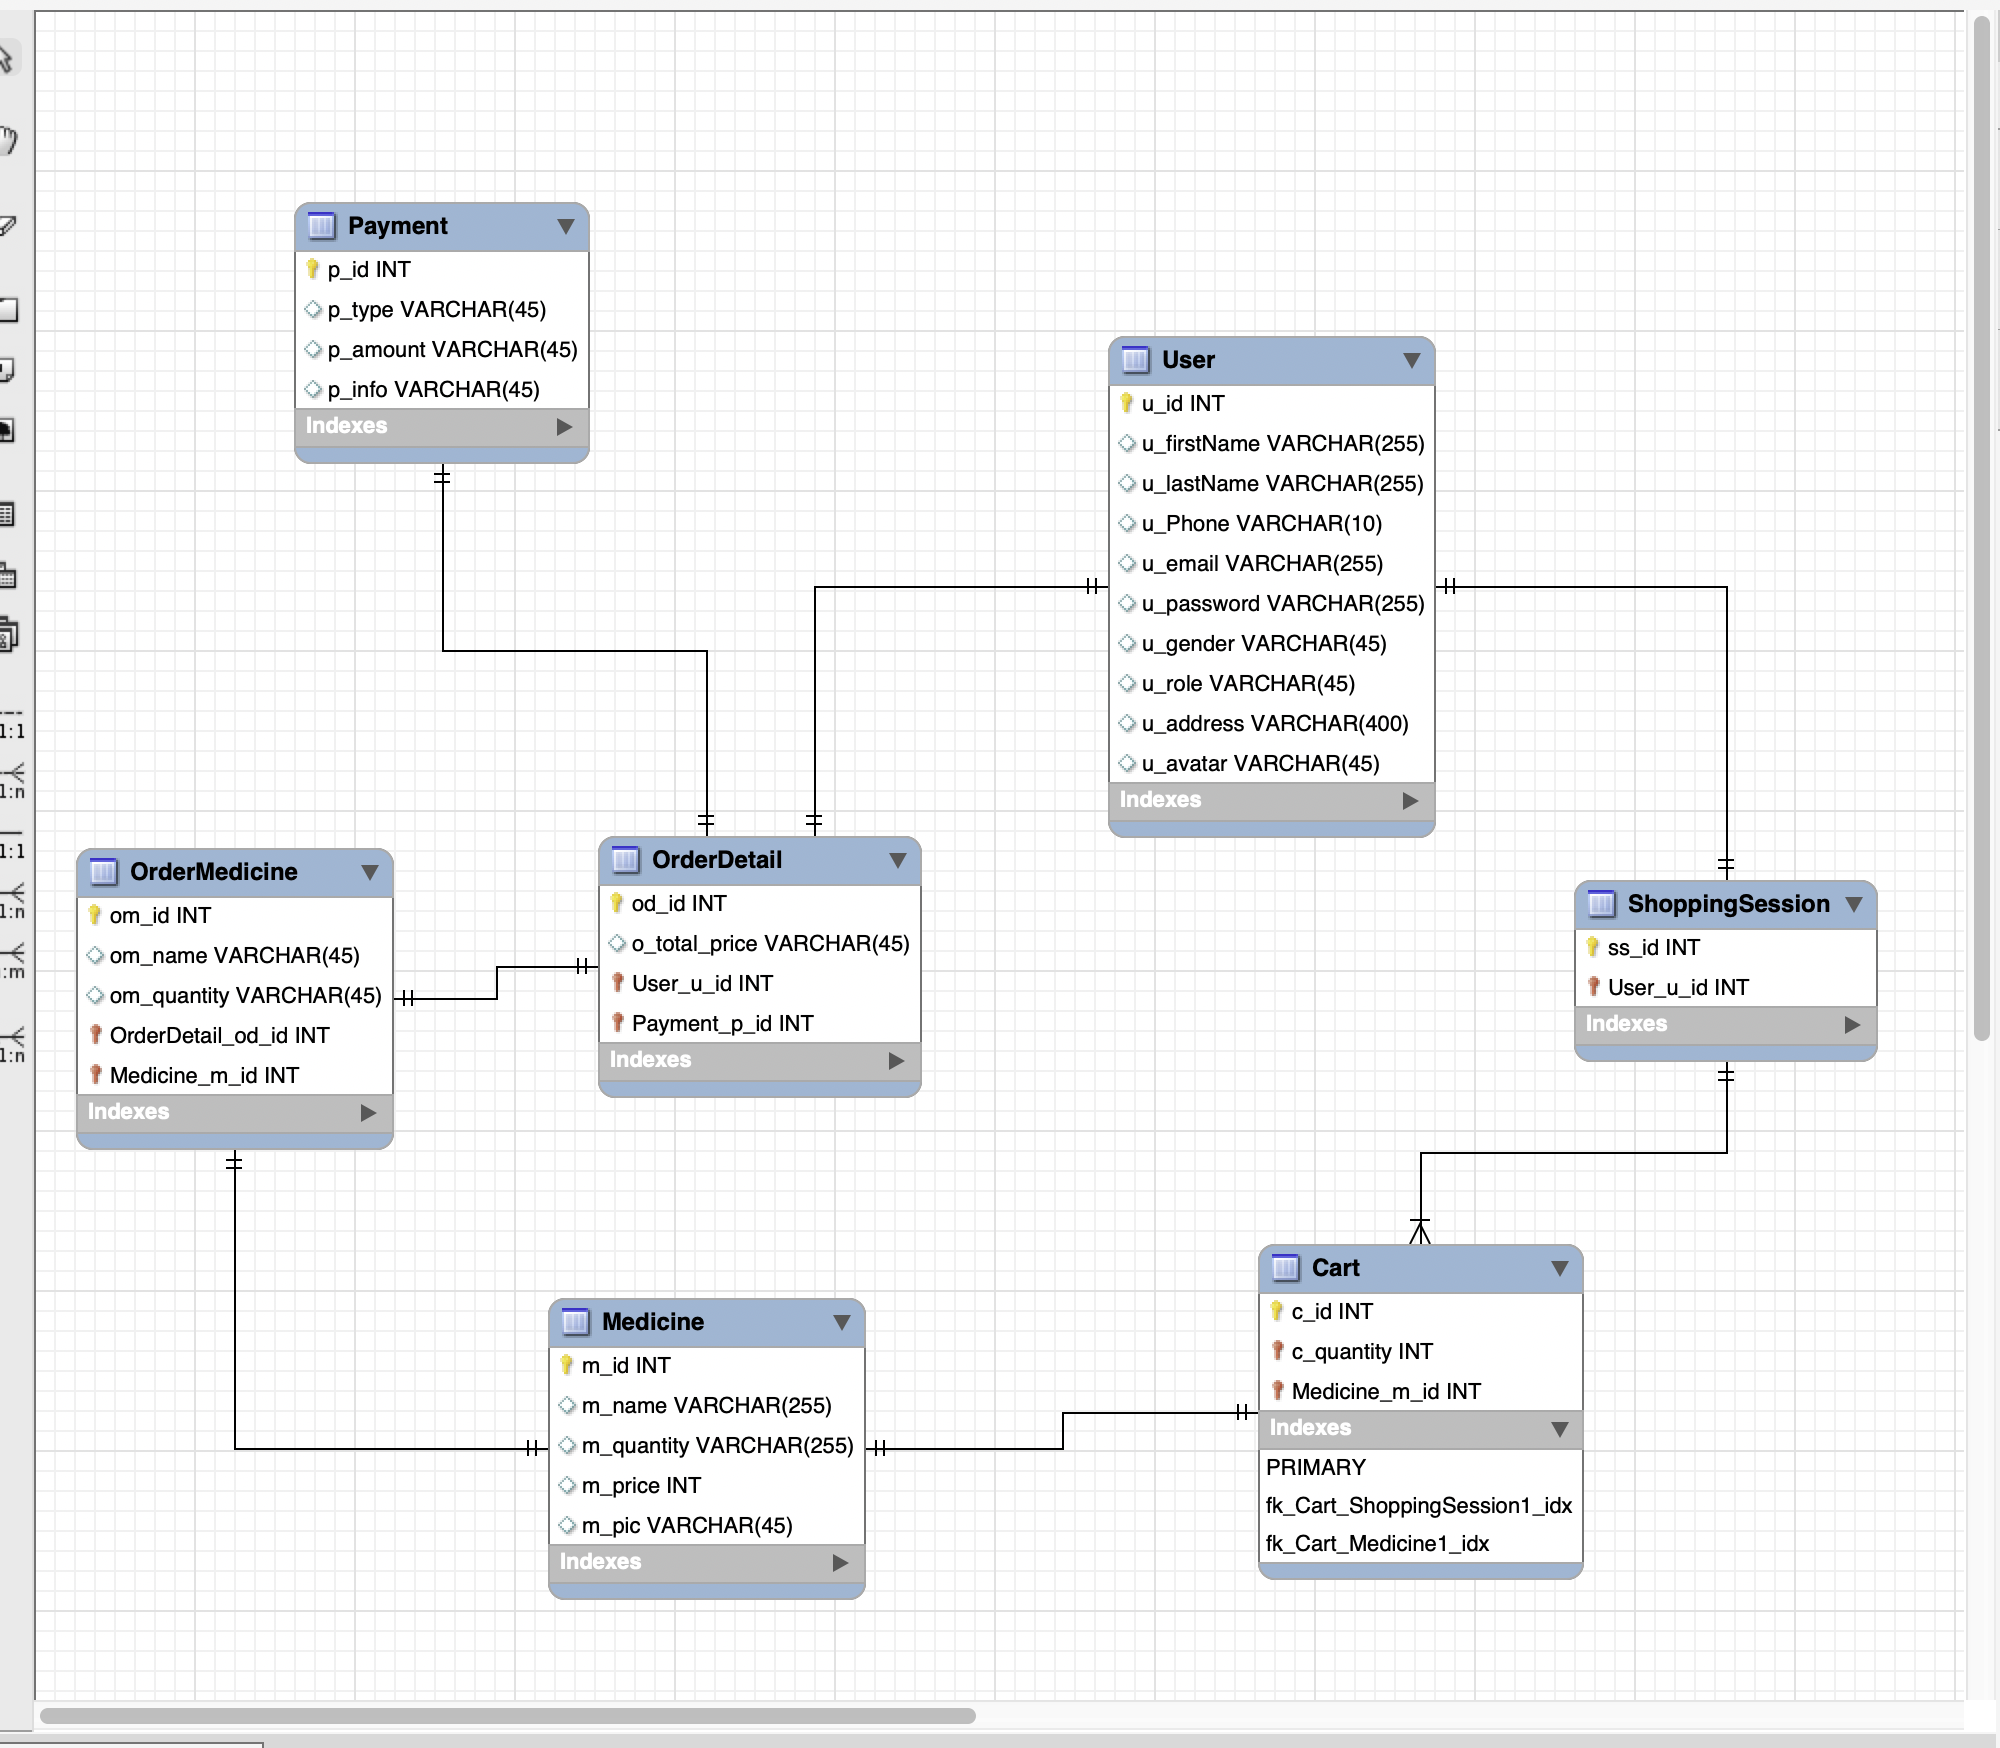
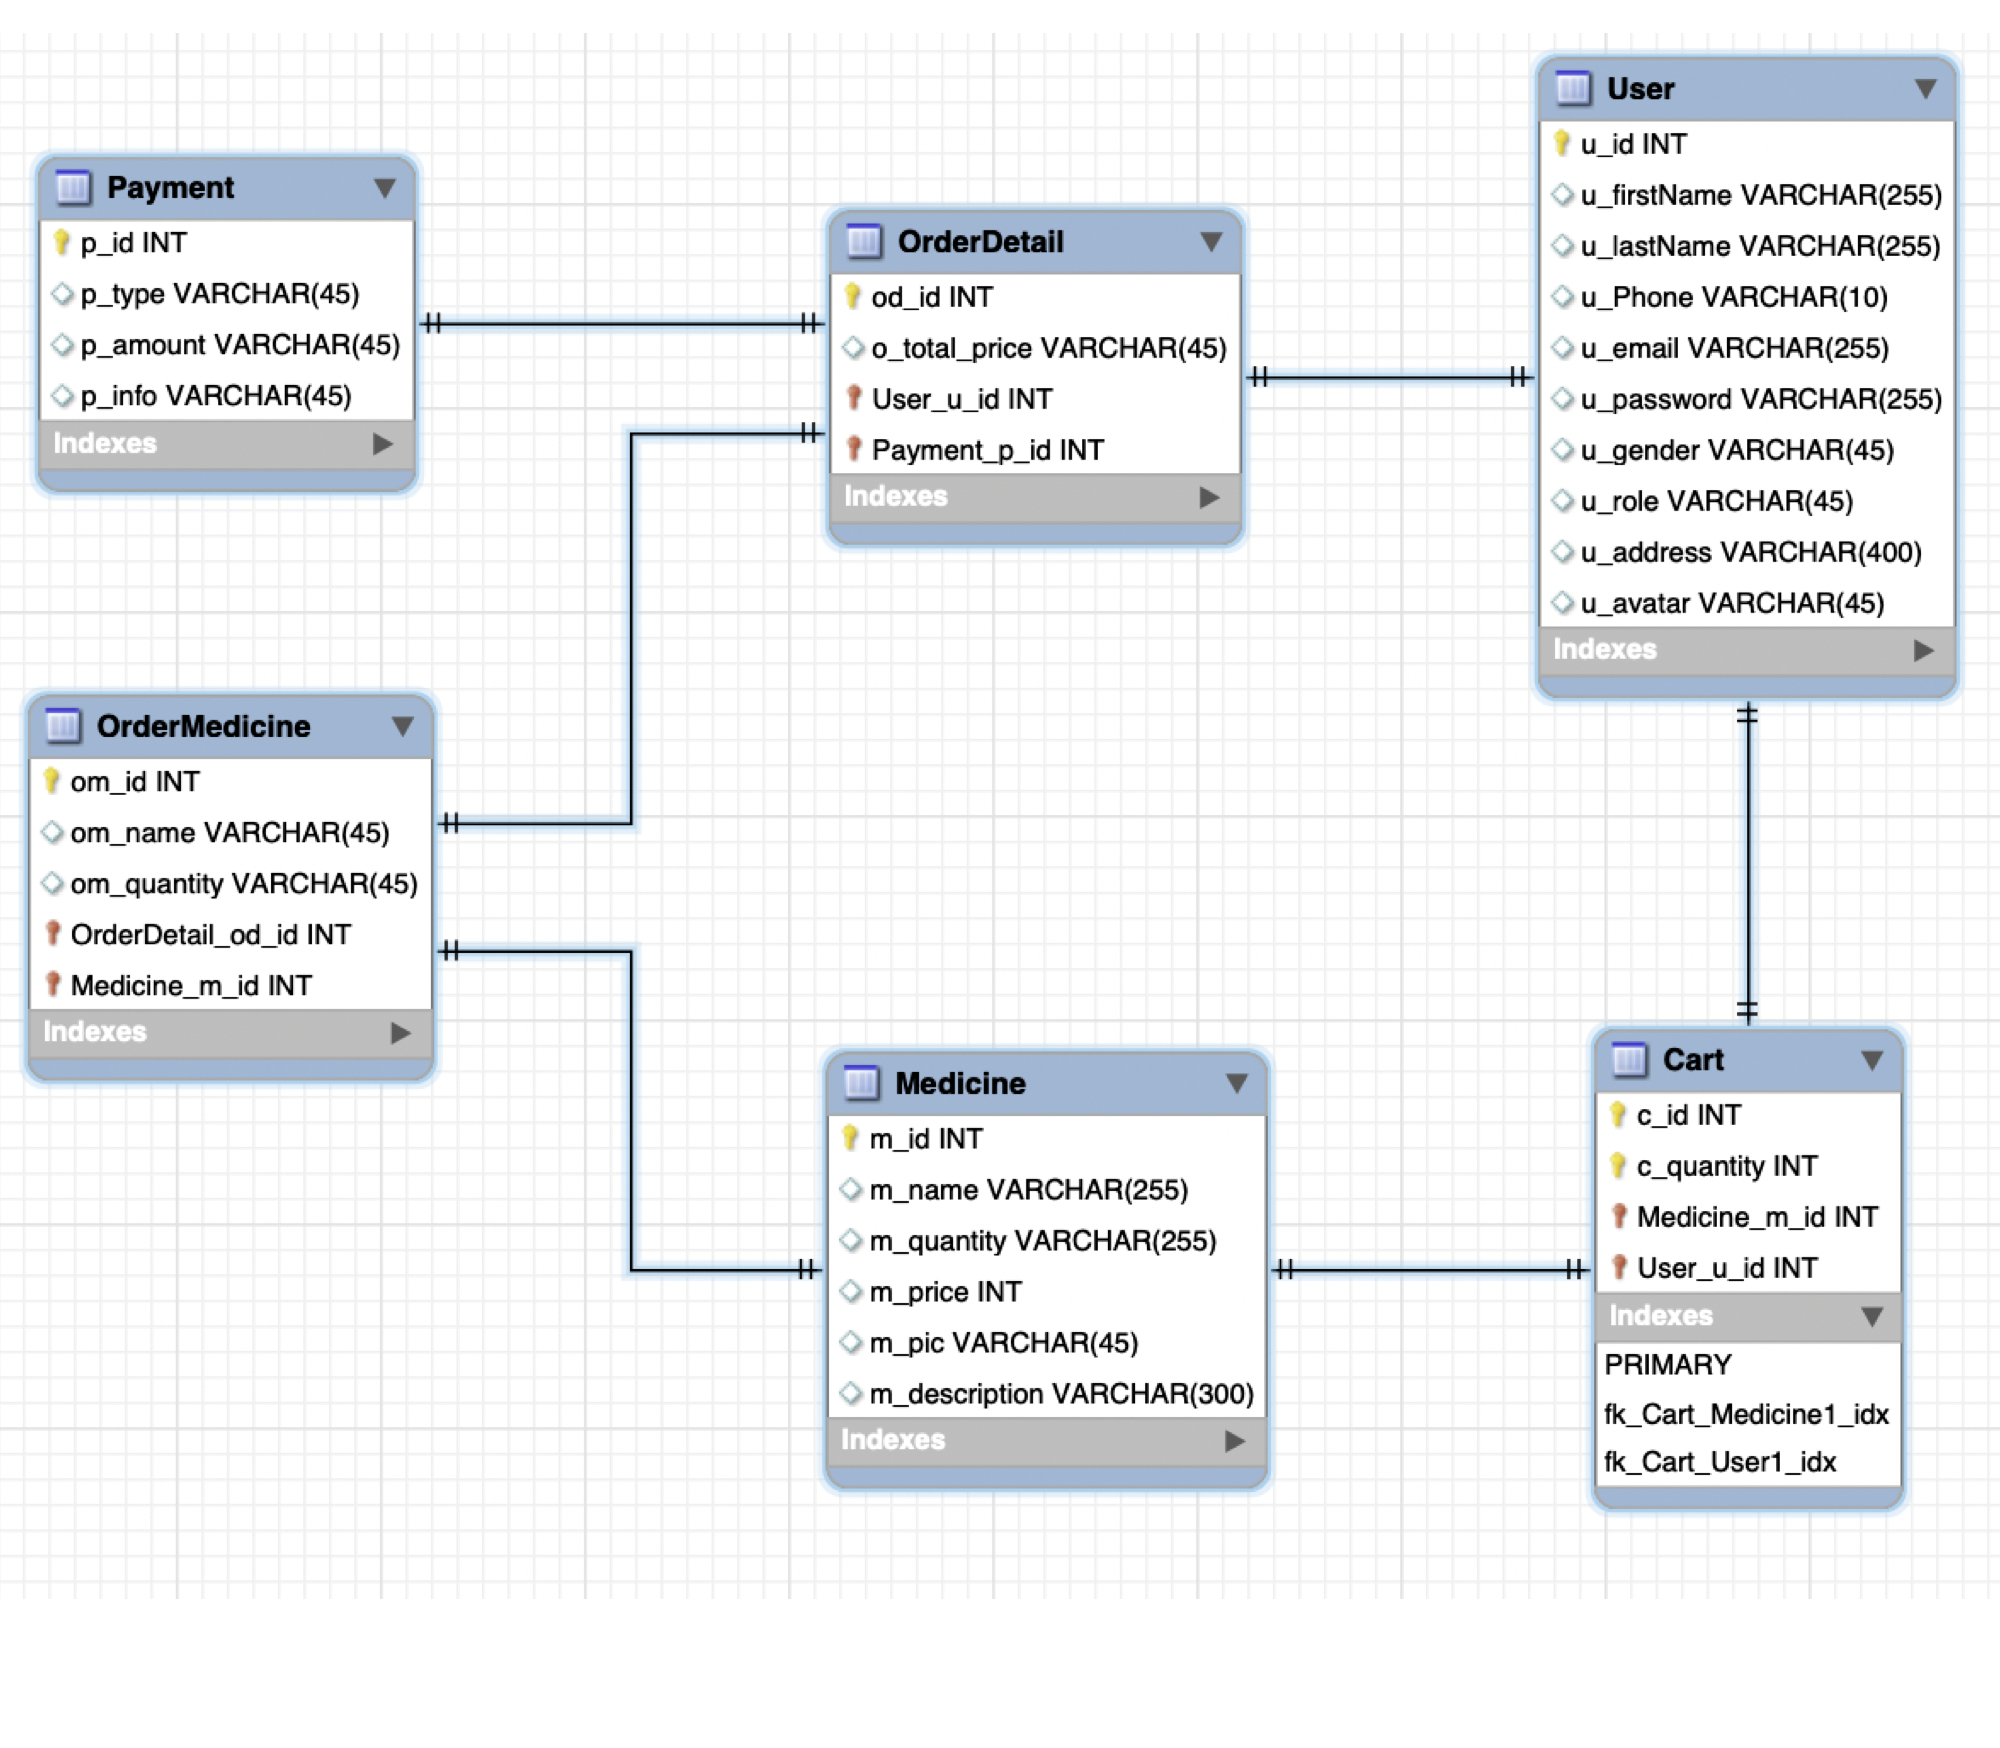
update ER diagram and happyme_ERD.sql

diff --git a/conn_db.php b/conn_db.php
@@ -1,5 +1,5 @@
 <?php
-$mysqli = new mysqli("127.0.0.1","root","","happyme", 3306);
+$mysqli = new mysqli("127.0.0.1","root","root","happyme", 3306);
 
 if($mysqli -> connect_errno){
     header("location: db_error.php");
